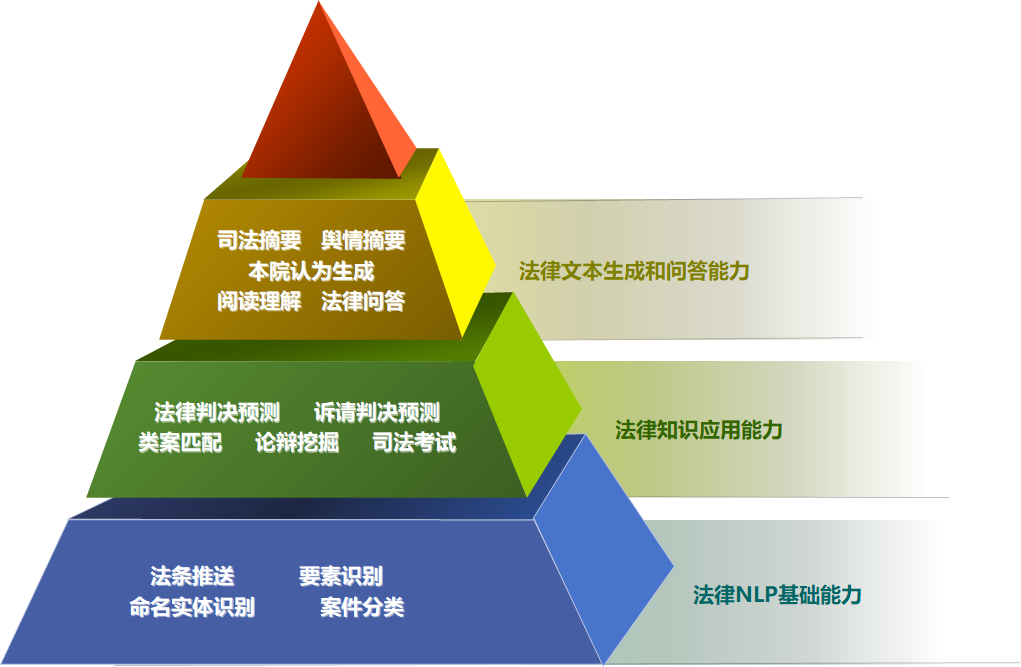
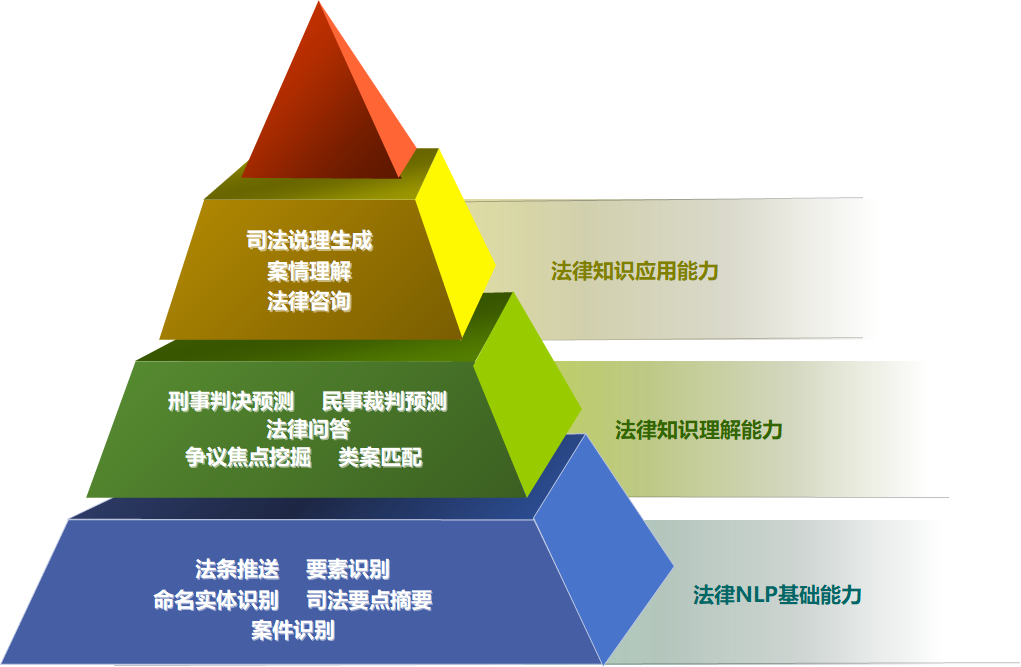
更新评测体系

diff --git a/README.md b/README.md
@@ -2,13 +2,37 @@
 
 狴犴：中文法律大模型综合性基准
 
-## 任务评估结构图
+🔥 [SCULaiw最新榜单](https://huggingface.co/spaces/daishen/SCULaiw)
+
+## 新闻
+
+💻 **最近更新** **[2023/10/02]** 
+
+- 公布 [SCULaiw](https://github.com/Dai-shen/SCULaiw) 能力评测体系
+- 完成 ChatGPT ，[Llama2](https://huggingface.co/meta-llama/Llama-2-7b-chat-hf)，[Baichuan2](https://huggingface.co/baichuan-inc/Baichuan2-13B-Chat)，[HanFei](https://github.com/siat-nlp/HanFei)，[ChatLaw](https://huggingface.co/JessyTsu1/ChatLaw-13B)，[LawGPT](https://github.com/pengxiao-song/LaWGPT) 等大模型的 法律 NLP 基础能力评测工作
+- 公布法律能力和基础任务评测分数计算方式
+
+## Contents
+
+- [SCULaiw: Legal Evaluation Framework (BIAN)](#sculaiw-legal-evaluation-framework-bian)
+  - [新闻](#新闻)
+  - [Contents](#contents)
+    - [任务评测结构图](#任务评测结构图)
+    - [评测](#评测)
+      - [环境准备](#环境准备)
+      - [自动评估](#自动评估)
+    - [任务](#任务)
+    - [指令微调数据集](#指令微调数据集)
+    - [评分机制](#评分机制)
+
+### 任务评测结构图
 
 <img src="https://github.com/Dai-shen/SCULaiw/blob/main/resources/task_framwork.png"  width="50%" height="50%"></img>
 
 ### 评测
 
-我们按照结构图所示的10个基础能力测试任务成功评测了现存诸多大模型在这些任务上的表现，详情可见[模型评测榜单](https://huggingface.co/spaces/daishen/SCULaiw)。评测模型不仅包括未开源的 chatgpt 和 gpt，而且还有 llama2, baichuan, chatglm 等开源通用大模型和 Chatlaw, hanfei 等开源的中文法律大模型
+- 我们将按照评测结构图中的13个基础任务持续评测现存大模型在这些任务上的表现，详情可见[模型评测榜单](https://huggingface.co/spaces/daishen/SCULaiw)。
+- 评测模型不仅有未开源的 ChatGPT 和 GPT-4，而且还有 [Baichuan2](https://huggingface.co/baichuan-inc/Baichuan2-13B-Chat), [chatglm2](https://huggingface.co/THUDM/chatglm2-6b)，[HanFei](https://github.com/siat-nlp/HanFei)，[Lawyer LLaMa](https://github.com/AndrewZhe/lawyer-llama/tree/main), [智海-录问](https://modelscope.cn/models/wisdomOcean/wisdomInterrogatory/summary) 等开源的通用大模型和中文法律大模型
 
 #### 环境准备
 
@@ -24,55 +48,231 @@ pip install -e .[multilingual]
 
 ```bash
 python eval.py \
-    --model "hf-causal-llama" \
-    --model_args "use_accelerate=True,pretrained=daishen/model,tokenizer=daishen/model,use_fast=False" \
-    --tasks "legal_ar,legal_cp,legal_ptp"
+    --model "hf-causal-experimental" \
+    --model_args "use_accelerate=True,pretrained=baichuan-inc/Baichuan2-13B-Chat,tokenizer=baichuan-inc/Baichuan2-13B-Chat,use_fast=False" \
+    --tasks "legal_ar,legal_er,legal_ner"
 ```
 
 ### 任务
 
-我们评估法律NLP的两个重要板块：\
-一，法律信息抽取，包含命名实体识别，要素识别，文本摘要三个子任务\
-二，法律应用能力，包含法律文书生成，法律知识问答，案情分析，类案匹配，法律判决预测，诉请判决预测，争议焦点挖掘。\
-下面是各个子任务的描述。
+我们经过 <strong>法学专家</strong> 的多次指导，从法学角度上评测法律 NLP 的<strong>三</strong>大能力，共计<strong>13</strong>个基础任务
 
-|   任务   | 描述                                                                                                                                                |
-|:------:|:--------------------------------------------------------------------------------------------------------------------------------------------------|
-| 命名实体识别 | 从各种法律文件中提取具有司法特征的名词和短语并进行合并的过程，如与赃物、嫌疑人有关的法律文件。                                                                                                   |
-|  要素识别  | 在司法领域，案件要素识别任务的主要目的是从案件描述中自动提取关键事实描述。在给定司法文书的相关段落之后，系统对每句话进行分析和判断，以确定关键的案件要素。                                                                     |
-|  文本摘要  | 法律文本摘要是对法律文本进行摘要整理的过程，旨在产生一个较短的文本，保留较长文本的大部分含义。                                                                                                   |
-|   法律文书生成    | 法律文书生成，这里特指根据司法裁判文书中的“事实认定”内容生成“本院认为”文本。                                                                                                          |
-|   法律知识问答    | 法律知识问答，旨在回答法律领域的问题。法律专业人员工作的重要组成部分之一就是为非专业人员提供可靠、高质量的法律咨询服务。                                                                                      |
-|   案情分析    | 案情分析，是在充分理解案件描述之后回答此案件相关的问题。                                                                                                                      |
-|   类案匹配    | 在英美法系国家，如美国、加拿大和印度，司法裁决是根据过去类似的代表性案例做出的。因此，如何识别最相似的案件是英美法系在判决中首要关注的问题。                                                                            |
-|   法律判决预测    | 法律判决预测，它根据事实描述自动预测判断结果，具体包括罪名预测、相关法条预测和刑期预测三个子任务。                                                                                                 |
-|   诉请判决预测    | 法院案件的这项任务通常使用事实描述来预测其对原告诉请的判决。                                                                                                                    |
-|   争议焦点挖掘    | 在法院的庭审过程中，裁判文书起着记录辩、诉双方观点证据的重要作用。本任务旨在抽取出裁判文书中辩方诉方之间的逻辑交互论点对，即争议焦点。                                                                               |
+- 法律 NLP 基础能力：主要评测法律基础任务、 NLP 基础任务和法律信息抽取的能力，包括法条推送、要素识别、命名实体识别、司法要点摘要和案件识别 5 个基础任务
+- 法律知识理解能力：主要评测大模型对相关法律文本的知识理解的能力，包括刑事裁判预测、民事裁判预测、法律问答、争议焦点挖掘和类案匹配 5 个基础任务
+- 法律知识应用能力：进一步评测大模型对法律领域知识的应用能力，包括司法说理生成、案情理解和法律咨询 3 个基础任务
+  
+下面是评测任务的具体描述
 
-### 数据集 (legal Instruction Dataset)
+<style>
+  table {
+    width: 100%;
+    border-collapse: collapse;
+  }
+  
+  table td {
+    padding: 8px;
+    text-align: center;
+    border: 1px solid black;
+  }
+  
+  table td:last-child {
+    text-align: left;
+  }
+</style>
 
-|             数据集             |     任务      | 数据集大小 | 文本类型 | 法律领域 |  任务类型   |      评价指标      | 来源 |
-|:---------------------------:|:-----------:|:-----:|:----:|:----:|:-------:|:--------------:| :----: |
-|        CAIL-2021-IE         |   命名实体识别    |   -   | json |  刑事  | 命名实体识别  |    F1, P, R    | [[1]](https://github.com/isLouisHsu/CAIL2021-information-extraction/tree/master) |
-|        CAIL-2019-ER         |    要素识别     |   -   | json |  民事  |  多标签分类  |   Acc,Mac-F1   | [[2]](https://github.com/china-ai-law-challenge/CAIL2019) |
-| CAIL-2020-TS & CAIL-2022-TS |    文本摘要     | 3762  | json |  -   |  文本摘要   |     ROUGE      | [[3]](http://cail.cipsc.org.cn/task_summit.html?raceID=1&cail_tag=2020) [[4]](https://github.com/china-ai-law-challenge/CAIL2022/tree/main/sfzy)  |
-|       Court-View-Gen        |   法律文书生成    |   -   | json |  刑事  |  文本生成   |     ROUGE      | [[5]](https://github.com/oceanypt/Court-View-Gen) |
-|           AC-NLG            |   法律文书生成    |   -   | json |  民事  |  文本生成   |     ROUGE      | [[6]](https://github.com/wuyiquan/AC-NLG)  |
-|           JEC-QA            |   法律知识问答    |   -   | json |  民事  |   多选题   |      Acc       | [[7]](https://jecqa.thunlp.org/)  |
-|            CJRC             |    案情分析     |   -   | json |  民事  |   单选题   |       F1       | [[8]](https://github.com/china-ai-law-challenge/CAIL2019/tree/master)  |
-|        CAIL2019-SCM         |    类案匹配     |   -   | json |  民事  |   二分类   |      Acc       | [[9]](https://github.com/china-ai-law-challenge/CAIL2019/tree/master/scm)  |
-|           LecaRd            |    类案匹配     |   -   | json |  民事  | 文本相似度排序 |     ROUGE      | [[10]](https://github.com/myx666/LeCaRD)  |
-|          CAIL2018           | 法律判决预测-法条预测 |   -   | json |  刑事  |  多标签分类  |     ROUGE      | [[11]](https://github.com/thunlp/CAIL)  |
-| Criminal-S | 法律判决预测-罪名预测 |   -   | json |  刑事  |   多分类   | Acc, P, R, F1  | [[12]](https://github.com/thunlp/attribute_charge) |
-| MLMN | 法律判决预测-刑期预测 |   -   | json |  刑事  |   多分类   |    P, R, F1    | [[13]](https://github.com/gjdnju/MLMN) |
-| MSJudeg |   诉请判决预测    |   -   | json |  民事  |   多分类   | Mac-F1, Mic-F1 | [[14]](https://github.com/mly-nlp/LJP-MSJudge) |
-| CAIL2020-AM & CAIL2021-AM |   争议焦点挖掘    |   -   | json |  -   |   多选题   |      Acc       | [[15]](https://github.com/china-ai-law-challenge/CAIL2020/tree/master/lbwj) [[16]](https://github.com/china-ai-law-challenge/CAIL2020/tree/master/lbwj) |
+<table>
 
-#### 评价指标
+  <tr>
+  <td>能力</td>
+  <td>任务</td>
+  <td>描述</td>
+  </tr>
 
-| 任务类型 | 评价指标 | 说明                                                  |
-|----|------|-----------------------------------------------------|
-| 分类 | Acc  | 表示正确预测的观测结果与总观测结果的比率 |
-| 分类 | F1 | F1 分数代表精确率和召回率的调和平均值，从而在这两个因素之间建立平衡。事实证明，它在一个因素比另一个因素更重要的情况下特别有用。分数范围从 0 到 1，1 表示完美的精确度和召回率，0 表示最差的情况 |
-| 分类 | Missing | 计算任务中给定候选项中未返回任何选项的样本比例 |
-| 分类 | Mcc | 是一种评估二元分类质量的指标，产生的分数范围为 -1 到 +1。+1 分表示完美预测，0 表示预测不比随机机会好，-1 表示完全相反的预测 |
+  <tr>
+    <td rowspan="5">法律NLP<br>基础能力</td>
+    <td>法条推送</td>
+    <td>该任务是司法实践应用上的基础任务，在提供法律领域的智能化支持和辅助决策上起着重要作用，旨在根据案件描述给出其相关法条</td>
+  </tr>
+  <tr>
+    <td>要素识别</td>
+    <td>在司法领域，案件要素识别任务的主要目的是从案件描述中自动提取关键事实描述。在给定司法文书的相关段落之后，系统对每句话进行分析和判断，以确定关键的案件要素</td>
+  </tr>
+  <tr>
+    <td>案件识别</td>
+    <td>民事案件和刑事案件是两种不同类型的法律案件。民事案件是解决个人纠纷和维护权益的法律程序，刑事案件是为了维护社会秩序和惩罚犯罪行为的法律程序。本任务旨在根据相关的案件描述判断其为刑事案件还是民事案件</td>
+  </tr>
+  <tr>
+    <td>命名实体识别</td>
+    <td>从各种法律文件中提取具有司法特征的名词和短语并进行合并的过程，如与赃物、嫌疑人有关的法律文件</td>
+  </tr>
+  <tr>
+    <td>司法要点摘要</td>
+    <td>裁判文书是人民法院公开审判活动、裁判理由、裁判依据和裁判结果的重要载体。司法摘要则是对裁判文书的内容进行压缩、归纳和总结，反映案件审理过程中的裁判过程、事实、理由和判决依据等</td>
+  </tr>
+
+  <tr>
+    <td rowspan="5">法律知识<br>理解能力</td>
+    <td>争议焦点挖掘</td>
+    <td>在法院的庭审过程中，裁判文书起着记录辩、诉双方观点证据的重要作用。本任务旨在抽取出裁判文书中辩方诉方之间的逻辑交互论点对，即争议焦点</td>
+  </tr>
+  <tr>
+    <td>类案匹配</td>
+    <td>在英美法系国家，如美国、加拿大和印度，司法裁决是根据过去类似的代表性案例做出的。因此，如何识别最相似的案件是英美法系在判决中首要关注的问题</td>
+  </tr>
+  <tr>
+    <td>刑事裁判预测</td>
+    <td>根据事实描述自动预测裁判结果，本任务旨在根据案件事实、证据和适用的法律，对被告人的定罪与否以及可能的刑期进行预测</td>
+  </tr>
+  <tr>
+    <td>民事裁判预测</td>
+    <td>通过分析案件相关信息和相关法律规定，预测民事诉讼中可能的判决结果或争议的解决方式。本任务旨在使用事实描述来预测其对原告诉请的裁判</td>
+  </tr>
+  <tr>
+    <td>法律问答</td>
+    <td>司法考试作为我国最难的考试，也是法律工作者生涯中极其重要的考试。本任务是针对国家司法考试的客观问答任务，包括单选题和多选题</td>
+  </tr>
+
+  <tr>
+    <td rowspan="3">法律知识<br>应用能力</td>
+    <td>司法说理生成</td>
+    <td>人民法院在认定案件事实的基础上需要就判决理由作出进一步的阐述。本任务旨在根据案件事实描述生成相关的司法说理文本</td>
+  </tr>
+  <tr>
+    <td>案情理解</td>
+    <td>通过机器智能化地阅读理解裁判文书，可以更快速、便捷地辅助法官、律师以及普通大众获取所需信息。本任务是基于中文裁判文书的阅读理解，具体来说，模型需要基于裁判文书的案件相关描述所提出的问题而作出合理合规的回答</td>
+  </tr>
+  <tr>
+    <td>法律咨询</td>
+    <td>涵盖广泛的法律领域，包括但不限于刑法、民法、商法、劳动法、知识产权法、家庭法等。本任务旨在根据用户提供的有关法律问题，考虑适用的法律法规、相关判例和法律解释，并结合具体情况给出准确、清晰和可靠的答案</td>
+  </tr>
+
+</table>
+
+### 指令微调数据集
+
+这里展示用于各个基础任务关于大模型的三大法律能力评测的指令微调数据集 SCULaiw-DataSet-FT，有关数据集更多详细信息可见 [SCULaiw-DataSet](https://github.com/Dai-shen/SCULaiw-DataSet)。数据集 SCULaiw-DataSet-FT 整理中，等待后续公布
+
+<style>
+  .align-right td:last-child
+    {
+        text-align: justify;
+        white-space: nowrap;
+    }
+
+</style>
+<table class="align-right">
+
+  <tr>
+    <td>能力层级</td>
+    <td>任务</td>
+    <td>原始数据集</td>
+    <td>指令微调<br>数据集</td>
+    <td>指令微调<br>数据集大小</td>
+    <td>Prompt</td>
+  </tr>
+
+  <tr>
+    <td rowspan="5">法律NLP<br>基础能力</td>
+    <td>法条推送</td>
+    <td>CAIL-2018</td>
+    <td><a href="https://www.example.com">legal_ar</a></td>
+    <td>5k</td>
+    <td>请根据下面给定的案件的相关描述预测其涉及的法条，可供选择的法条为('133', '264', '234')，回答只能是这三个法条中的一个。这三个法条代表《中华人民共和国刑法》中的法律条文，其中，法条‘133’表示‘违反交通运输管理法规，因而发生重大事故，致人重伤、死亡或者使公私财产遭受重大损失‘，法条‘264’表示‘盗窃公私财物，或者多次盗窃、入户盗窃、携带凶器盗窃、扒窃’，法条’234’表示’故意伤害他人身体‘。<br>文本:</td>
+  </tr>
+  <tr>
+    <td>要素识别</td>
+    <td>CAIL-2019</td>
+    <td><a href="https://www.example.com">legal_er</a></td>
+    <td>5k</td>
+    <td>请根据以下劳动争议领域的裁判文书的部分句段，识别其涉及的要素，可供选择的要素有('LB1', 'LB2', 'LB3', 'LB4', 'LB5', 'LB6', 'LB7', 'LB8', 'LB9', 'LB10','LB11', 'LB12', 'LB13', 'LB14', 'LB15', 'LB16', 'LB17', 'LB18', 'LB19', 'LB20')，回答只能是这二十个选项中的一个。这二十个选项中，'LB1'表示‘解除劳动关系‘，'LB2'表示‘支付工资‘，'LB3'表示‘支付经济补偿金‘，'LB4'表示‘未支付足额劳动报酬‘，'LB5'表示‘存在劳动关系‘，'LB6'表示‘未签订劳动合同‘，'LB7'表示‘签订劳动合同‘，'LB8'表示‘支付加班工资‘，'LB9'表示‘支付未签订劳动合同二倍工资赔偿‘，'LB10'表示‘支付工伤赔偿‘，'LB11'表示‘劳动仲裁阶段未提起‘，'LB12'表示‘不支付违法解除劳动关系赔偿金‘，'LB13'表示‘经济性裁员‘，'LB14'表示‘不支付奖金‘，'LB15'表示‘违法向劳动者收取财物‘，'LB16'表示‘特殊工种‘，'LB17'表示‘支付工亡补助金|丧葬补助金|抚恤金‘，'LB18'表示‘用人单位提前通知解除‘，'LB19'表示‘法人资格已灭失‘，'LB20'表示‘有调解协议‘。<br>文本：</td>
+  </tr>
+  <tr>
+    <td>命名实体识别</td>
+    <td>CAIL-2021</td>
+    <td></td>
+    <td></td>
+    <td></td>
+  </tr>
+  <tr>
+    <td>司法要点摘要</td>
+    <td>CAIL-2020</td>
+    <td></td>
+    <td></td>
+    <td></td>
+  </tr>
+  <tr>
+    <td>案件识别</td>
+    <td>CJRC</td>
+    <td><a href="https://www.example.com">legal_er</a></td>
+    <td>10k</td>
+    <td>请根据以下案件的标题或者相关描述文本，判断该案件属于刑事案件还是民事案件，并且你的回答应该只能是其中一个。<br>文本：</td>
+  </tr>
+
+  <tr>
+    <td rowspan="5">法律知识<br>理解能力</td>
+    <td>刑事判决预测</td>
+    <td>Criminal-S<br><center>MLMN</center></td>
+    <td></td>
+    <td></td>
+    <td></td>
+  </tr>
+  <tr>
+    <td>民事裁判预测</td>
+    <td>MSJudeg</td>
+    <td></td>
+    <td></td>
+    <td></td>
+  </tr>
+  <tr>
+    <td>法律问答</td>
+    <td>JEC-QA</td>
+    <td></td>
+    <td></td>
+    <td></td>
+  </tr>
+  <tr>
+    <td>争议焦点挖掘</td>
+    <td>Undisclosed</td>
+    <td></td>
+    <td></td>
+    <td></td>
+  </tr>
+  <tr>
+    <td>类案匹配</td>
+    <td>CAIL-2019</td>
+    <td></td>
+    <td></td>
+    <td></td>
+  </tr>
+
+  <tr>
+    <td rowspan="3">法律知识<br>应用能力</td>
+    <td>司法说理生成</td>
+    <td>AC-NLG</td>
+    <td></td>
+    <td></td>
+    <td></td>
+  </tr>
+  <tr>
+    <td>案情理解</td>
+    <td>CJRC</td>
+    <td></td>
+    <td></td>
+    <td></td>
+  </tr>
+  <tr>
+    <td>法律咨询</td>
+    <td>CrimeKgAssitant</td>
+    <td></td>
+    <td></td>
+    <td></td>
+  </tr>
+
+</table>
+
+### 评分机制
+
+📚 最新版本 V1.0：
+
+- 对于每一项评测能力，其分数为所评测的所有基础子任务分数的平均值，并且模型在四项能力的总分也取平均数，总分都为100分
+- 对于每项能力特定的基础任务，使用已构建的指令微调数据集，根据大模型在该任务上的输出与真实标签客观的计算相应的评估指标，作为模型在该任务上的分数 （评估指标取值范围均为 0-1 之间，任务评分 = 评估指标 * 100）
